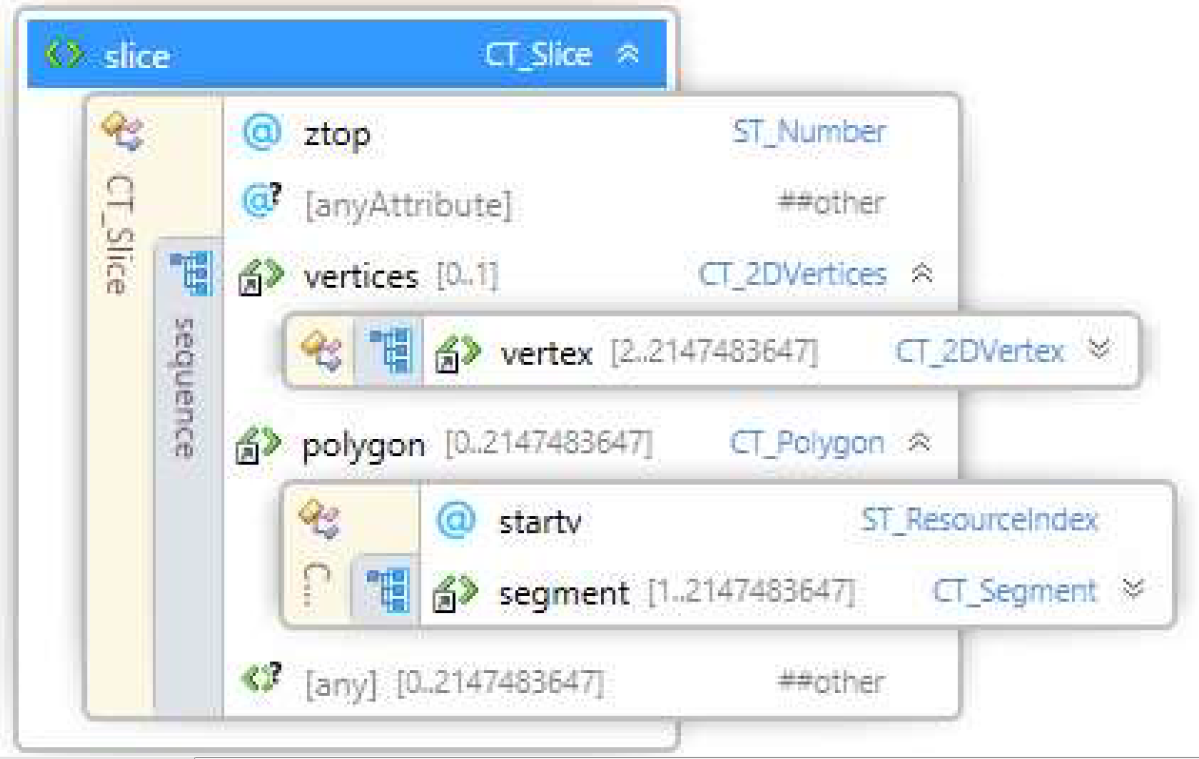
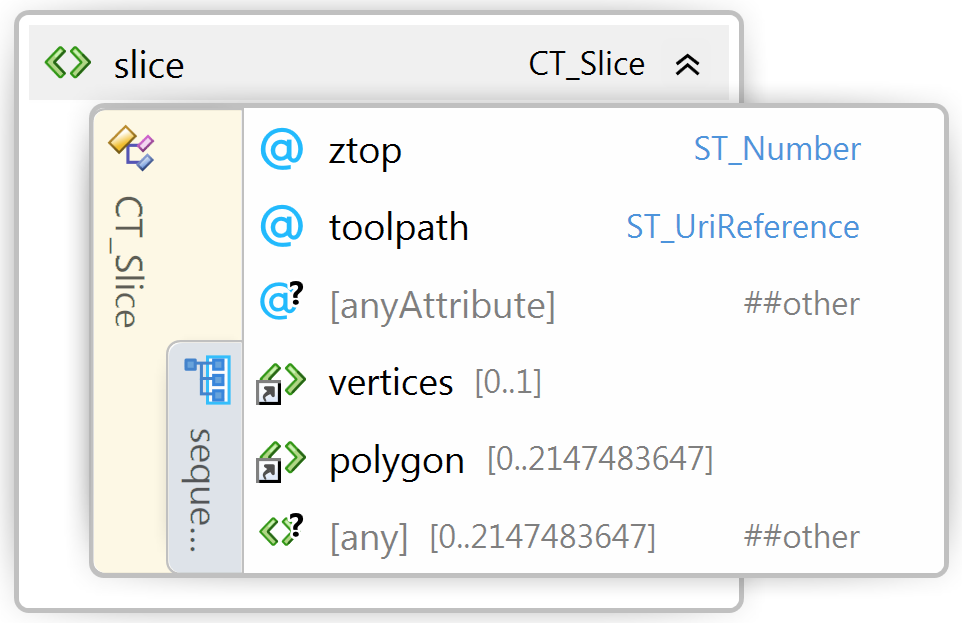
Add basic XSD-files

diff --git a/lasertoolpath.md b/lasertoolpath.md
@@ -128,7 +128,12 @@ I don't think so: A producer using the laser toolpath specification MUST mark th
 ##### Figure 2-1: Overview of model XML structure of 3MF with laser toolpath additions.
 
 #####
-![Overview of model XML structure of 3MF with beam lattice additions](images/figure_2-1.png)
+![Overview of model XML structure of 3MF with lasertoolpath additions](images/lasertoolpath/slice.png)
+
+##### Figure 2-2: Overview of model XML structure of the lasertoolpathlayer document.
+
+#####
+![Overview of model XML structure of the lasertoolpathlayer document](images/lasertoolpath/lasertoolpathlayer.png)
 
 # Chapter 2. Slice
 
@@ -145,13 +150,13 @@ Each toolpath.xml describes what is in this slice. Since slices can be for \<obj
 
 TODO: Unification rules
 - Unify with different ztop. Producers SHOULD use same z-top for all toolpathxml
-- Unifiy from different objects
+- Unify from different objects
 
 TODO: slice specification: case where slices are referenced from components, and a component-object of this components-object references slice-geometry again.
 
 
 # Chapter 3. Toolpathlayer
-Not a model file, subject to different schema xmlns=”http://schemas.microsoft.com/3dmanufacturing/laserpathlayer/2018/5” 
+Not a model file, subject to different schema xmlns=”http://schemas.microsoft.com/3dmanufacturing/laserpathlayer/2018/05” 
 TODO: describe that this requires an OPC relation
 
 ## 3.1. Profiles
@@ -168,6 +173,7 @@ Element **\<profile>**
 | name   | **ST\_String** | required |   | Name for this profile. Must not be unique. |
 | laserpower | **ST\_PositiveNumber** | required | none | Specifies the power of the laser used, measured in W. TODO: correct physical quantity? Useful unit?|
 | exposurespeed   | **ST\_PositiveNumber** | required   |   | speed at which the projected laser spot moves measured in mm/s TODO: units? |
+| laserfocus   | **ST\_PositiveNumber** | required   |   | Units? TODO: spotsize? |
 | laserindex | **ST\_PositiveNumber** | optional  |   | ID of the laser to be used. TODO: allow "any" OR make it optional. |
 
 The \<profile\>-elements are used to specify the properties of a laser.
@@ -245,7 +251,34 @@ To describe continuously varying properties (e.g. speeds). Cut the polygon and u
 ## Appendix B. 3MF XSD Schema
 
 ```xml
-
+<?xml version="1.0" encoding="UTF-8"?> 
+<xs:schema xmlns="http://schemas.microsoft.com/3dmanufacturing/lasertoolpath/2018/05" xmlns:xs="http://www.w3.org/2001/XMLSchema" xmlns:xml="http://www.w3.org/XML/1998/namespace" 
+targetNamespace="http://schemas.microsoft.com/3dmanufacturing/lasertoolpath/2018/05" elementFormDefault="unqualified" attributeFormDefault="unqualified" blockDefault="#all"> 
+	<xs:import namespace="http://www.w3.org/XML/1998/namespace" schemaLocation="http://www.w3.org/2001/xml.xsd"/>
+  <xs:annotation> 
+		<xs:documentation><![CDATA[   Schema notes: 
+ 
+  Items within this schema follow a simple naming convention of appending a prefix indicating the type of element for references: 
+ 
+  Unprefixed: Element names 
+  CT_: Complex types 
+  ST_: Simple types 
+   
+  ]]></xs:documentation> 
+	</xs:annotation> 
+	<!-- Complex Types --> 
+	<xs:complexType name="CT_Slice"> 
+		<xs:attribute name="toolpath" type="ST_UriReference" use="optional"/>
+		<xs:anyAttribute namespace="##other" processContents="lax"/>
+	</xs:complexType>
+	<!-- Simple Types -->
+	<xs:simpleType name="ST_UriReference"> 
+		<xs:restriction base="xs:anyURI"> 
+			<xs:pattern value="/.*"/> 
+		</xs:restriction> 
+	</xs:simpleType>
+	<!-- Elements --> 
+</xs:schema>
 ```
 
 
